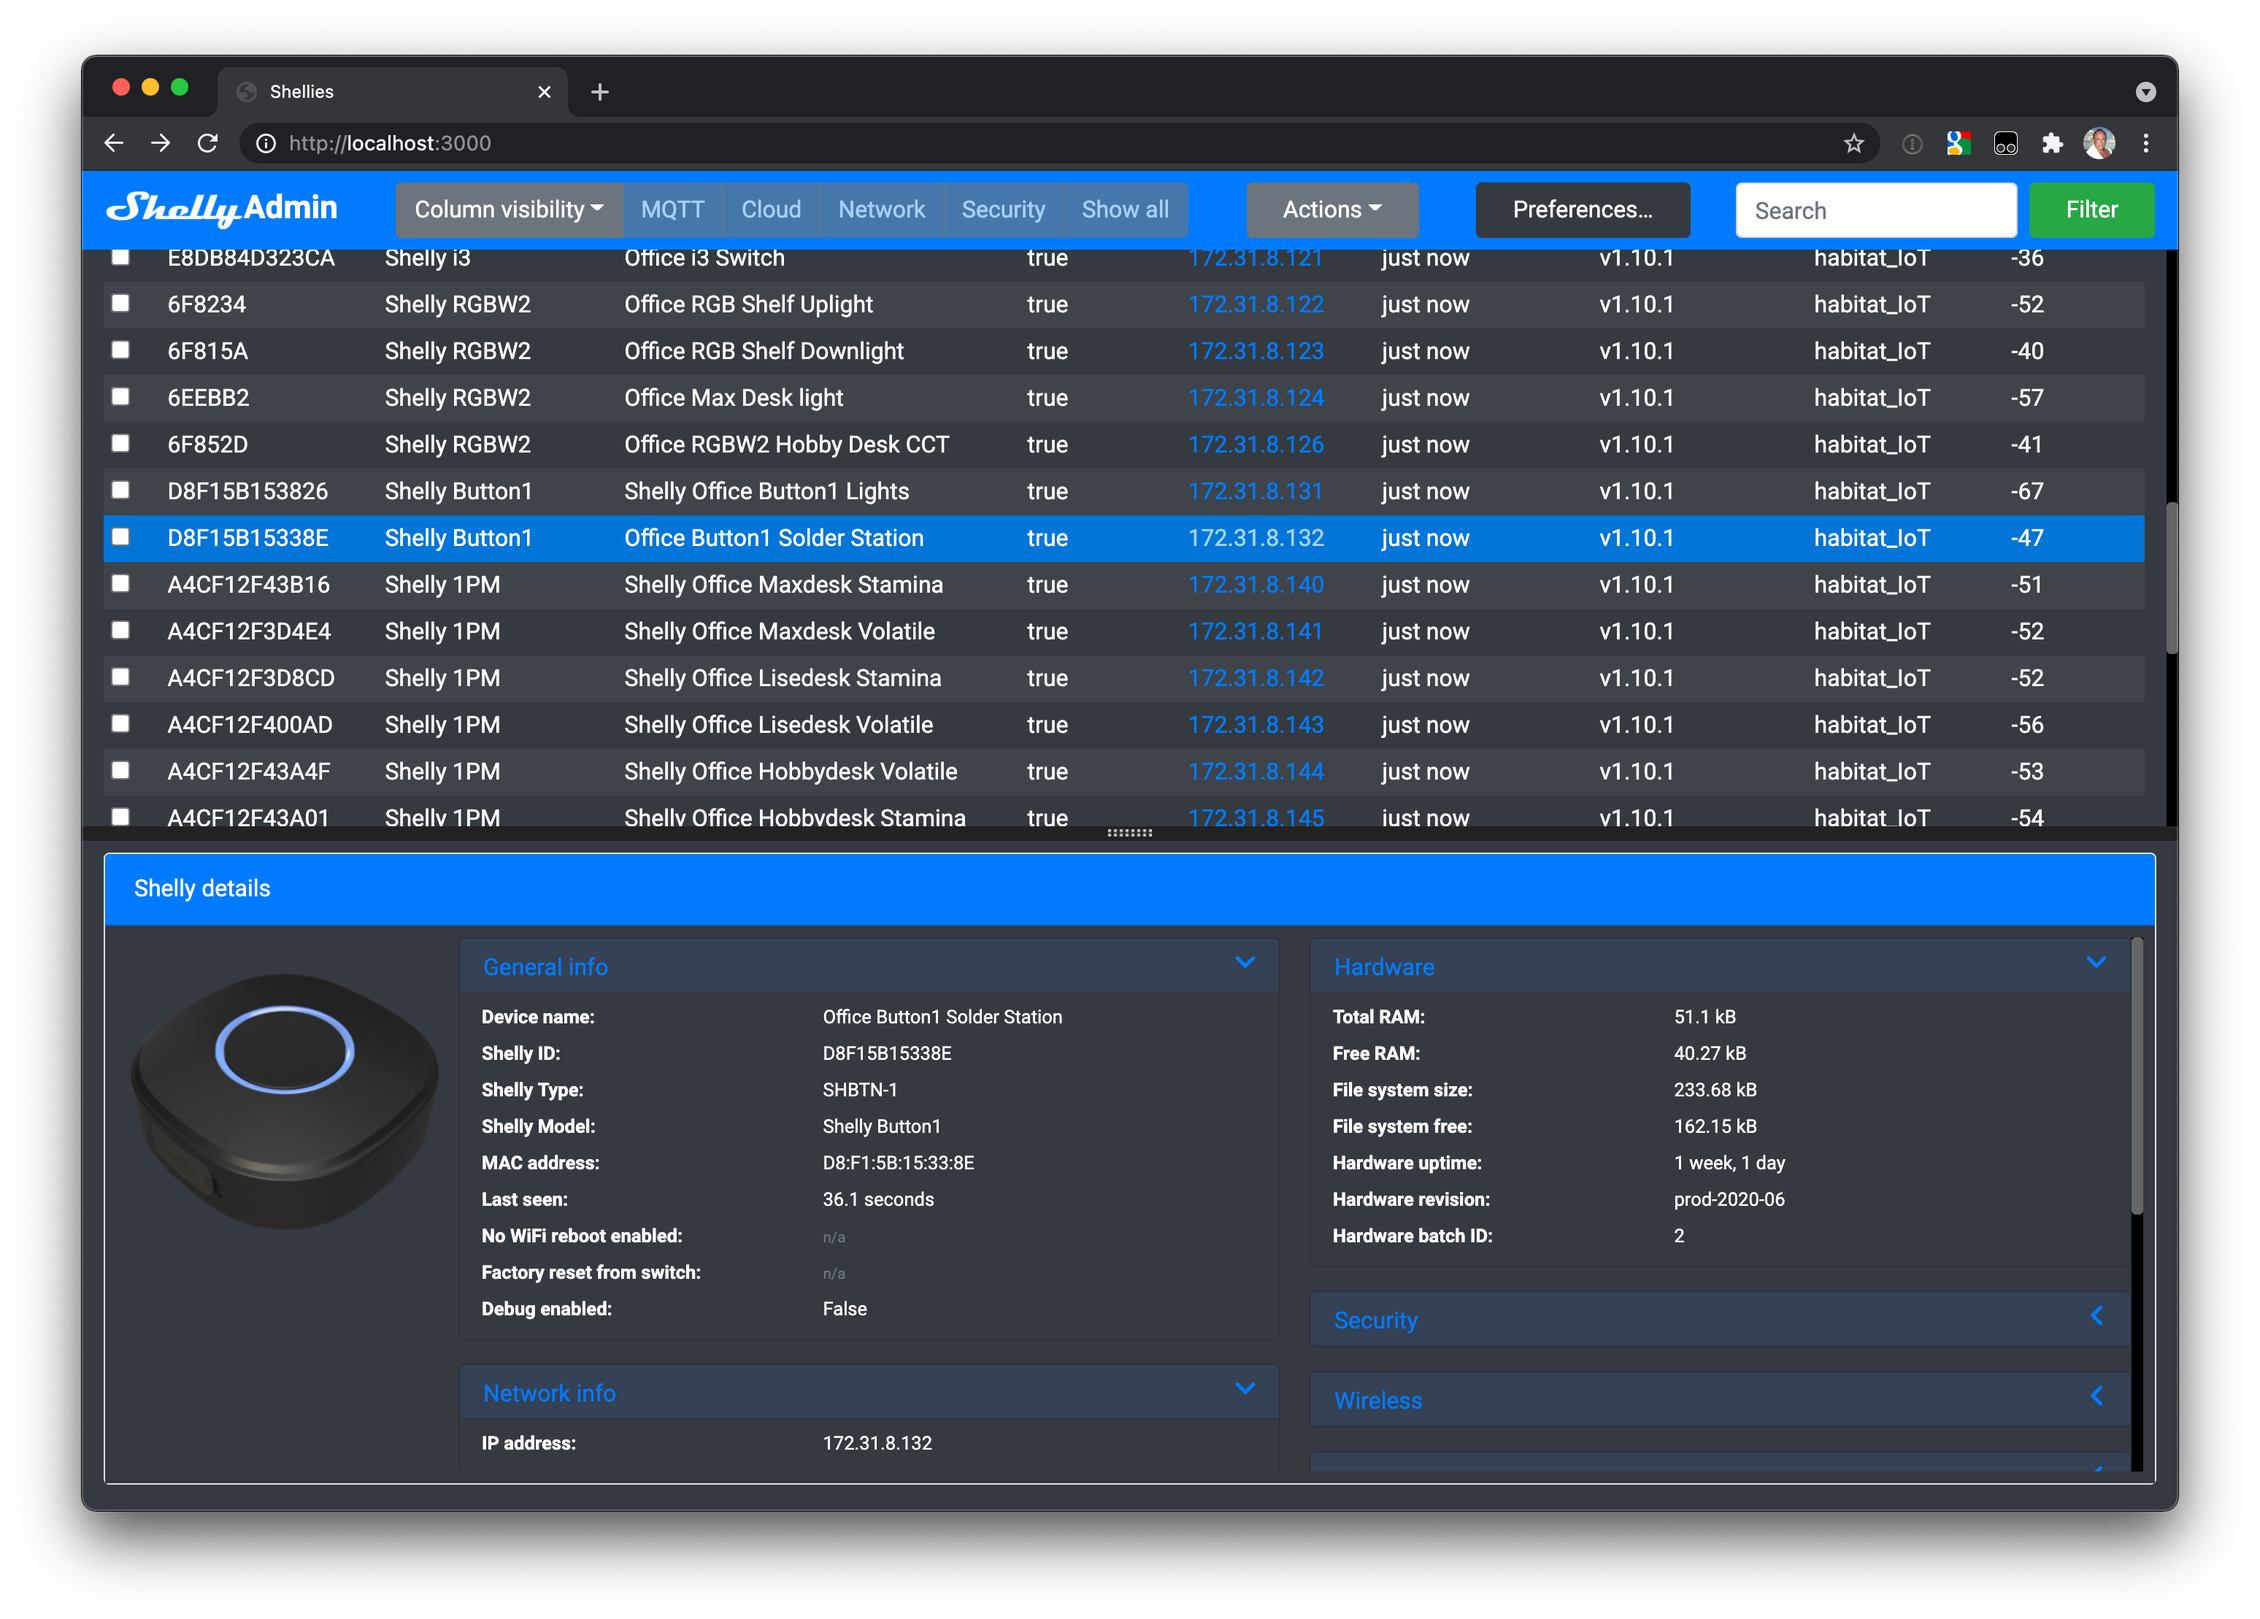
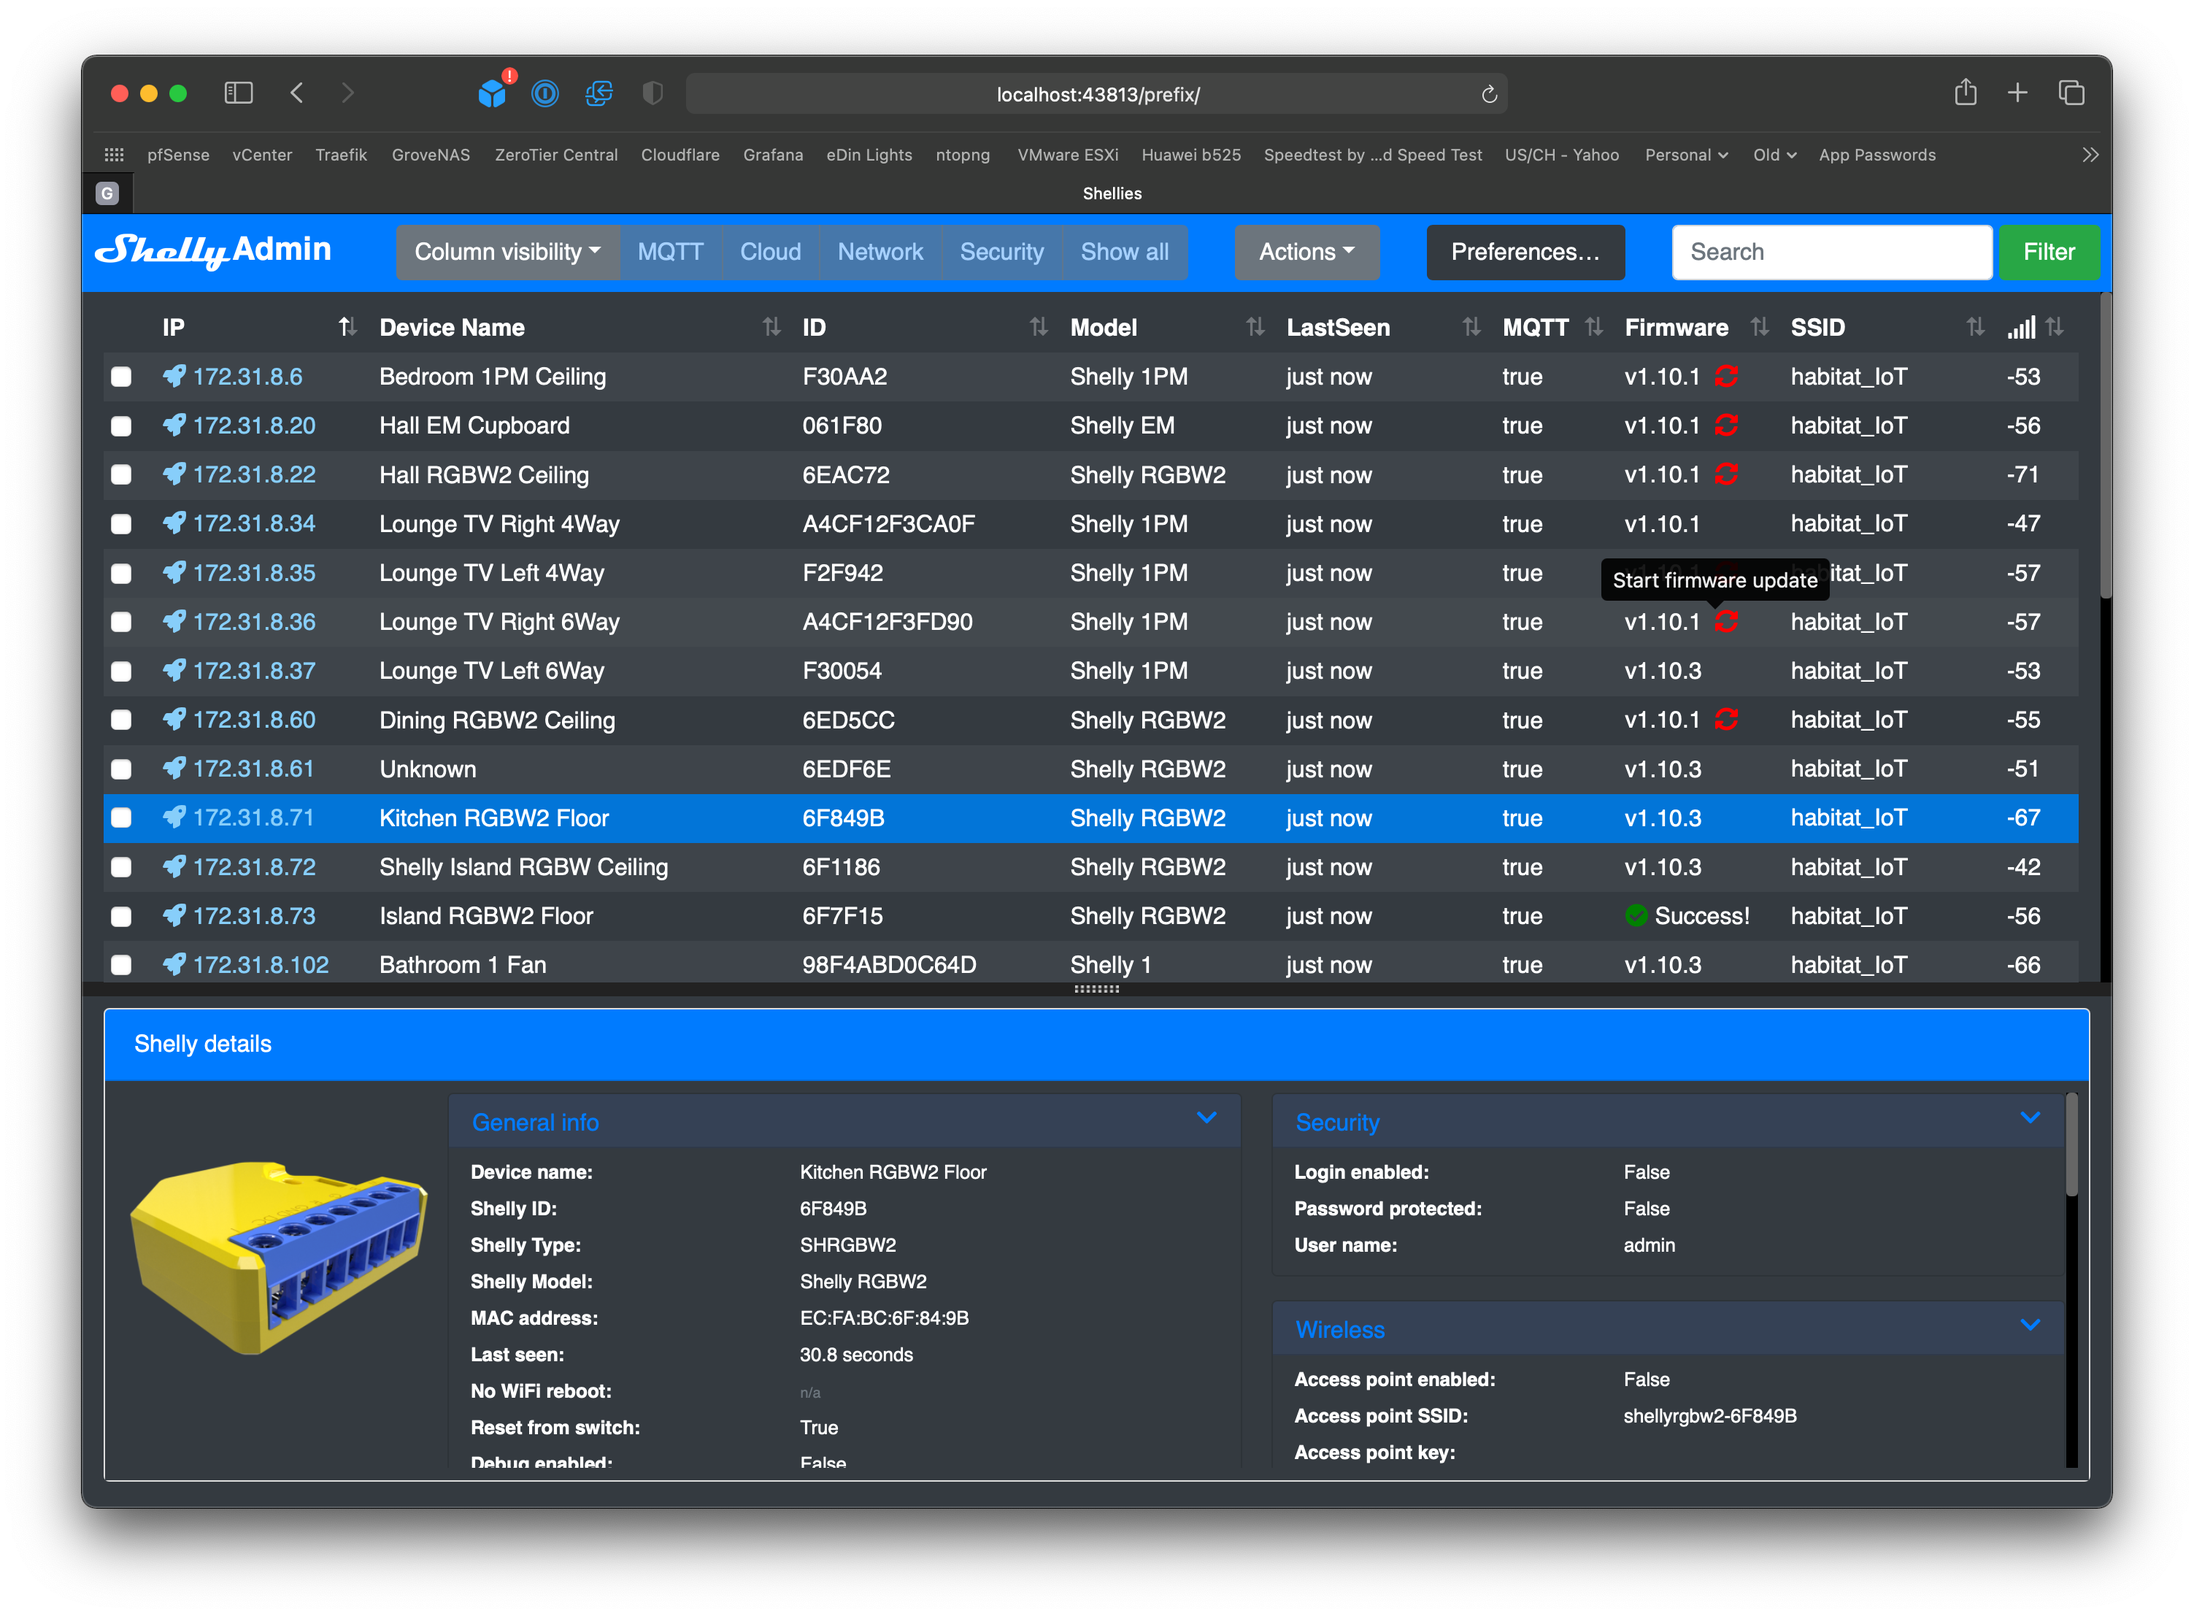
Dcoumentation and screenshot update

diff --git a/README.md b/README.md
@@ -1,13 +1,15 @@
-# Shelly Admin Express
+# Shelly Admin
 
 Handles discovery and communication with [Shelly](https://shelly.cloud) devices, using both [CoAP](http://coap.technology) over HTTP and [MQTT](https://mqtt.org/).
 
 An adminstration console written to manage a whole network of Shellys and to enure that their configuration is homogenous. The goal of the development is to deliver the application upon NodeJS/ExpressJS so that it can be deployed both as a "Add-On" to run within the HomeAssistant UI and also can be built using ElectronJS framework to make standalone platform native applications for MacOS, Windows, Linux and mobile.
 
-The user interface is  entirely HTML5 and built upon Bootstrap 4 and Pug (née Jade) page templates.
+The user interface is  entirely HTML5 and built upon Bootstrap 4 and Pug (née Jade) page templates. The design is fully responsive and reconfigures its layout dynamically so it is usuable even on a mobile device.
 ![Early Shelly Admin UI Preview]('doc/../doc/images/shelly-admin-screenshot.png)
 The applications, by design, does not work with or rely on Shelly Cloud. Device discovery is currently implemented via CoAP thanks to the awesome work of [Alexander Rydén](https://github.com/alexryd) for his contribution to the [Shellies](https://github.com/alexryd/node-shellies) NPM project. I fully intend to add MQTT discovery before first offical release and possibly IP range scanning if there is demand.
 
+Not only does the application discover all your devices on teh local network, it also allows you to update the firware with a single click or open the device configuration page without messy tabs or navigation:
+![Direct Shelly edit]('doc/../doc/images/shelly-admin-edit.png)
 The user interface is designed to be dynamic and will automatically update in realtime as Shelly devices appear, change or go offline. Where possible this is acheived via push notifcations from each device using CoAP or MQTT but also falls back to the direct device API calls over http where push events are not supported.
 
 This is prerelease software and is not yet feature complete. For ease of development this project is packaged as a NodeJS web server driving an HTML5 web browser (Safari, Chrome, Edge etc). The stand-alone Electron versions to deliver native binaries on MacOS and Windows will follow closer to functional completion.
